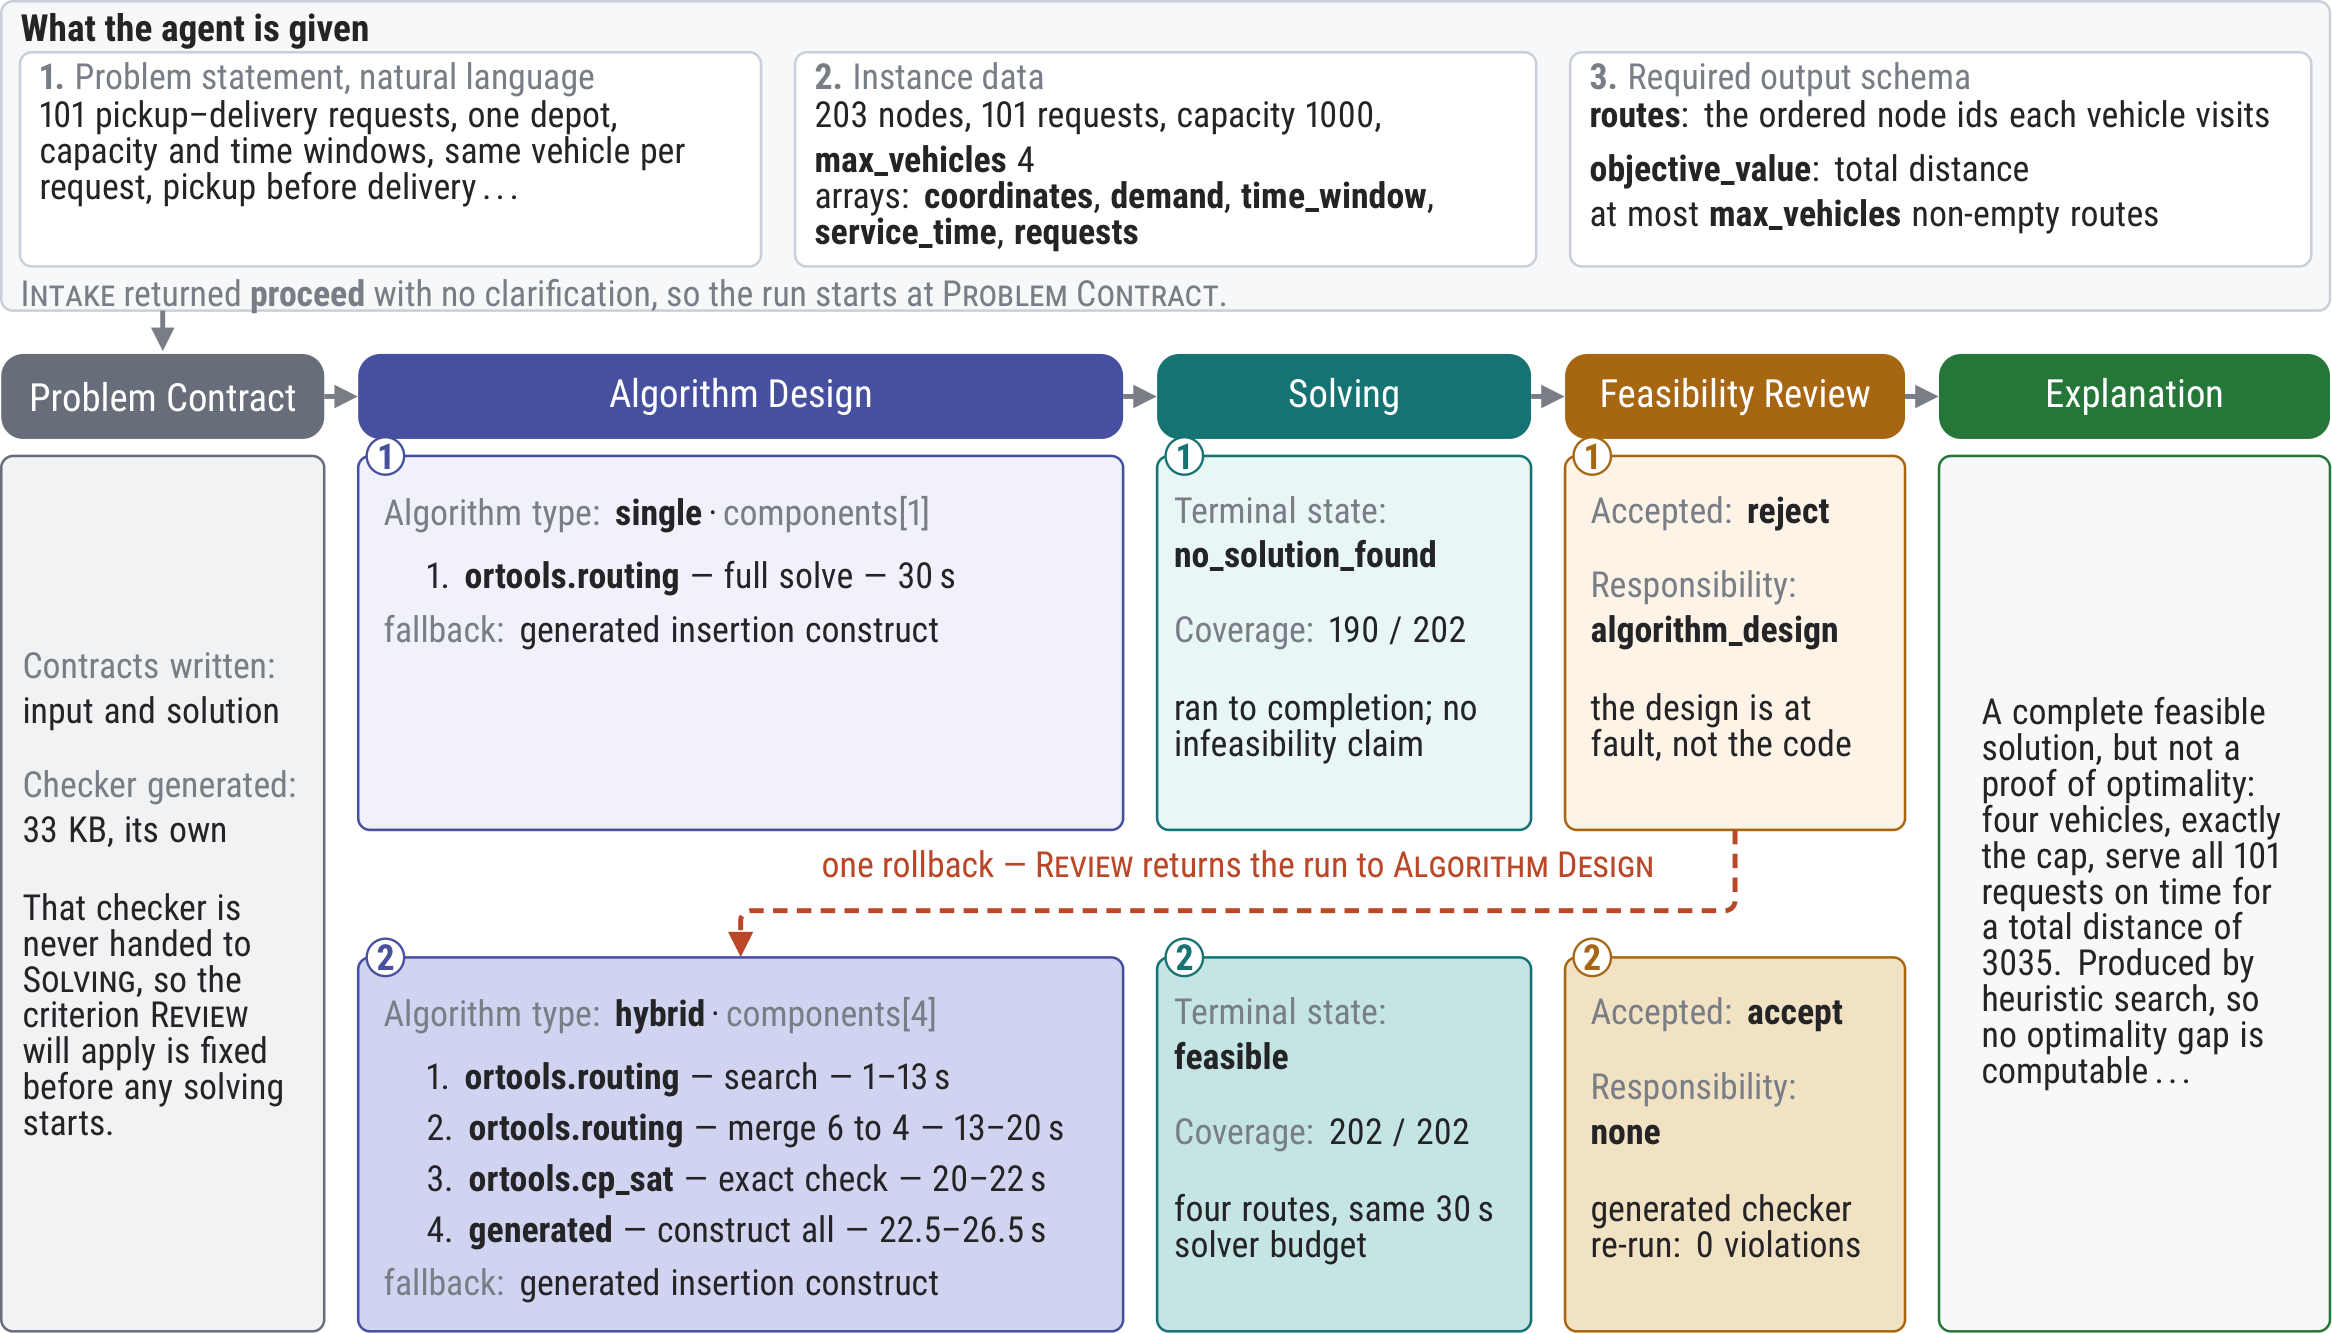
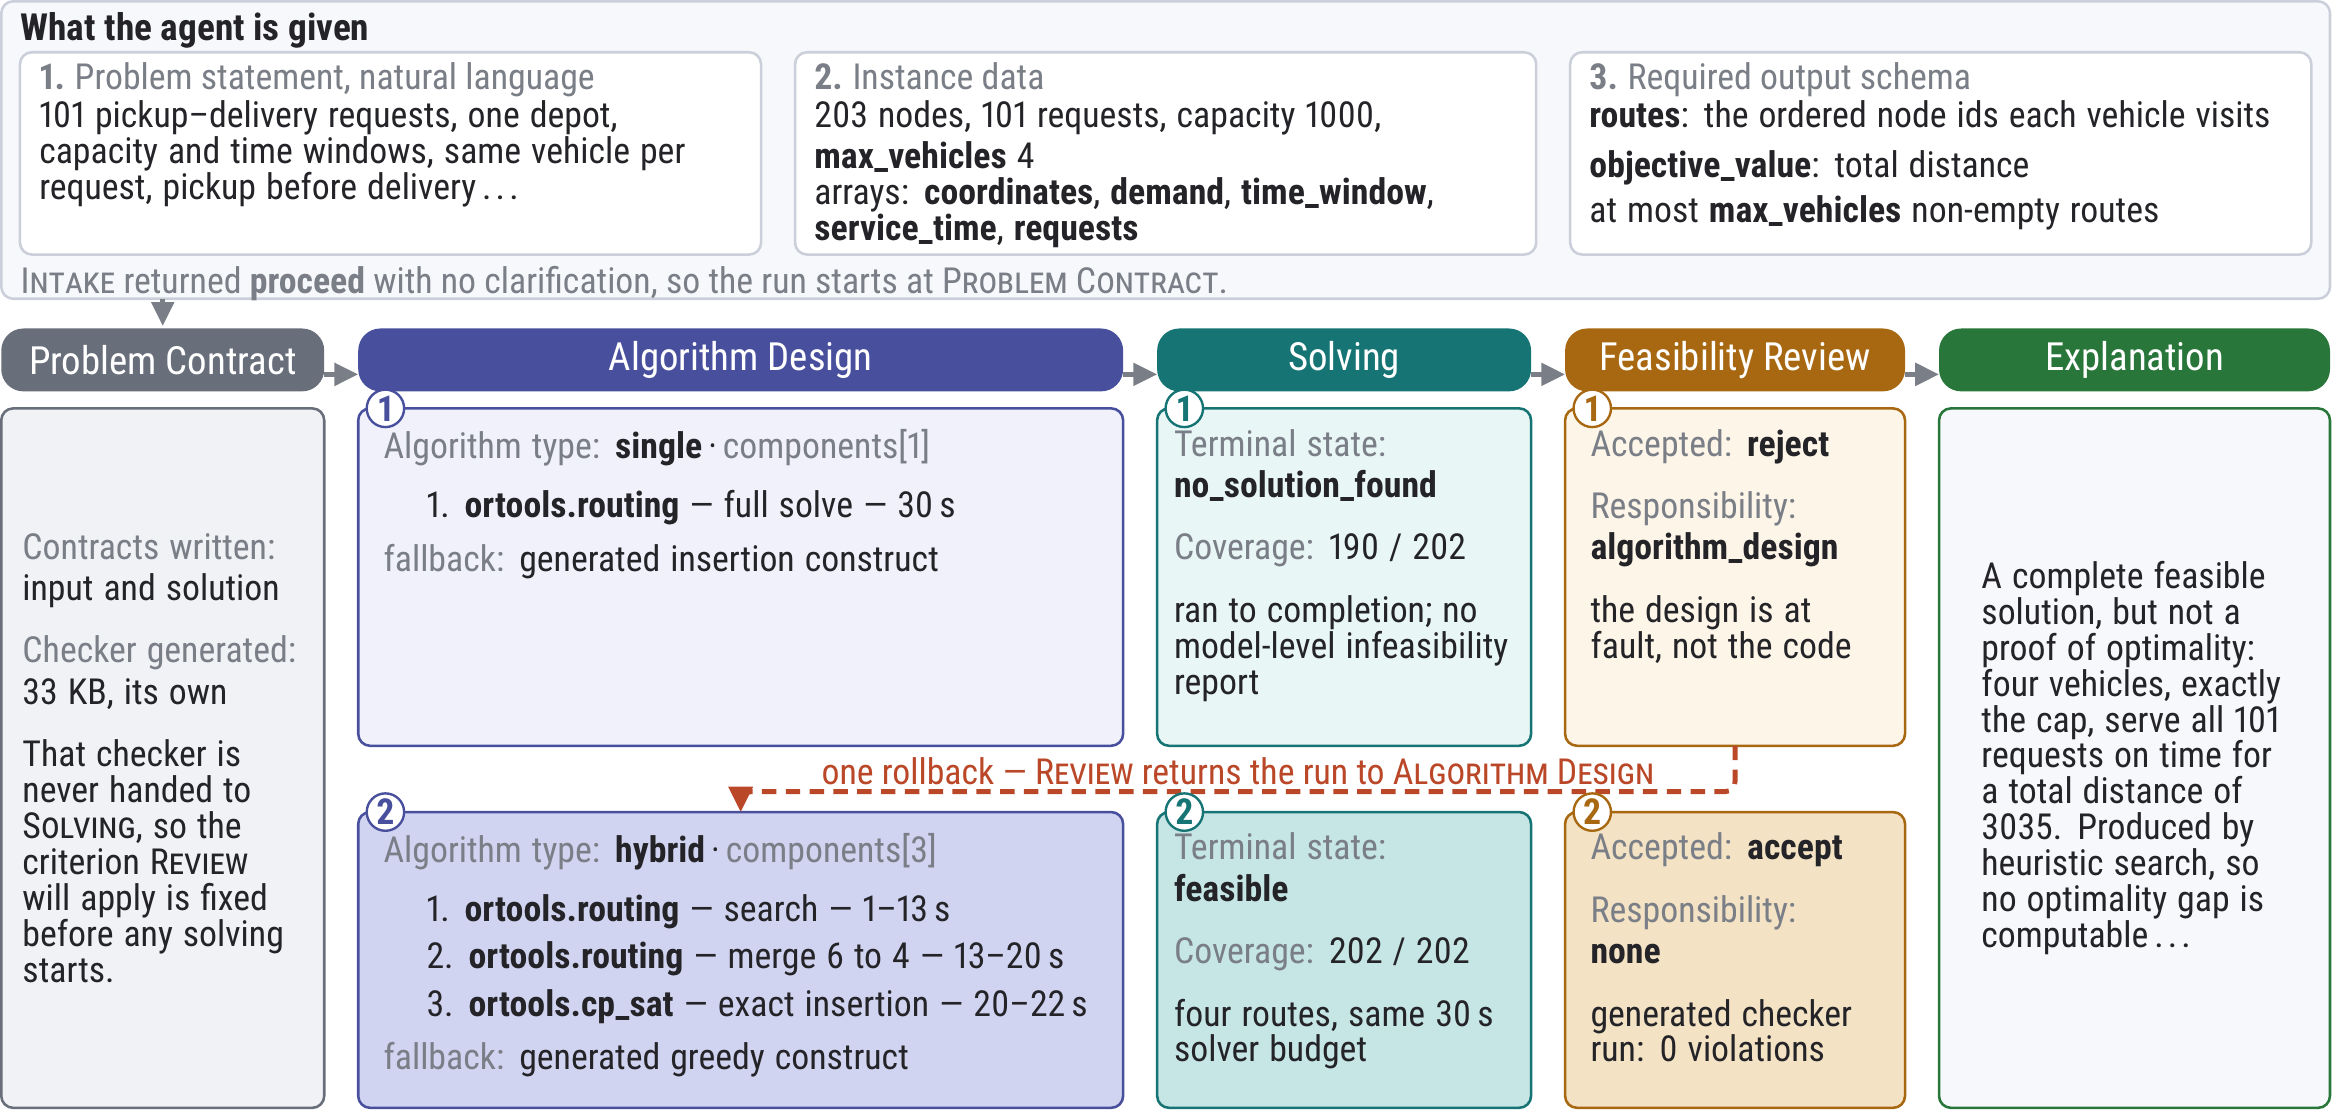
Lead with the pluggable algorithm library and refresh the figures
Add a Pluggable Algorithm Library section right after the overview paragraph,
with the add, replace, list, and remove commands and the catalog location.
Re-render the three figures from the current paper sources and add the system
overview image the README already referenced.

diff --git a/README.md b/README.md
@@ -7,7 +7,54 @@ interfaces actually run through an auditable capability layer, and independently
 candidate with a task- and instance-specific feasibility checker that routes failures to the
 stage responsible for targeted repair.
 
-## Workflow
+## Pluggable Algorithm Library
+
+Extending DecisionBrain is a catalog operation, not a code change. Every method the Agent can
+reach is declared in one strict YAML manifest under `algorithms/manifests/`, and the Agent reads
+that catalog at run time. Adding a solver, a metaheuristic framework, or an in-house domain
+routine means adding one manifest. Nothing in `src/decisionbrain/` is touched, and no stage
+prompt is rewritten.
+
+```bash
+# Plug a package in; the Agent sees it on the next run.
+dbn algorithms add path/to/package.yaml
+
+# Also run the declared import and minimal-call checks before the catalog is updated.
+dbn algorithms add path/to/package.yaml --check-runtime
+
+# Overwrite an entry that already uses the same package ID.
+dbn algorithms add path/to/package.yaml --replace
+
+# Inspect the catalog: package ID, verified version, status.
+dbn algorithms list
+
+# Unplug a package by removing its manifest from the catalog.
+rm algorithms/manifests/<package-id>.yaml
+```
+
+The catalog directory is `algorithms/manifests/` by default and follows
+`OPT_ALGORITHM_MANIFESTS_DIR` when it is set, so an evaluation machine can carry its own catalog
+without editing the checkout. `dbn algorithms add` validates the manifest against the
+package-specific interface profile, rejects a duplicate ID unless `--replace` is explicit,
+installs the file atomically, and reloads the catalog.
+
+The eight manifests shipped here are a starting catalog rather than a fixed one. They cover
+Gurobi, OR-Tools, PySCIPOpt, RSOME, ALNS, PyVRP, PyJobShop, and JobShopLib, spanning exact
+solvers, a robust-optimization modeling layer, metaheuristic frameworks, and domain-specific
+routing and scheduling packages. A manifest records the problem families, the method class, the
+optimality guarantee, the selection conditions, the limitations, and the verified distribution
+version, so a new package becomes usable by Algorithm Design and Solving the moment it is
+installed. See [Add an Algorithm Package](#add-an-algorithm-package) for the manifest
+requirements.
+
+## System Overview
+
+![DecisionBrain system overview](docs/assets/decisionbrain-overview.png)
+
+DecisionBrain replaces a model-first route with strategy-level design over components,
+validated heterogeneous methods, and independent feasibility review.
+
+## Full Workflow
 
 ![DecisionBrain workflow](docs/assets/decisionbrain-workflow.png)
 
@@ -21,8 +68,8 @@ and routes rejected outcomes back to the stage responsible for the failure.
 
 In this recorded pickup-and-delivery run, the first strategy returned an incomplete solution.
 Feasibility Review attributed the failure to Algorithm Design, which replaced the single-method
-strategy with a four-component hybrid. The second Solving pass served all 101 requests with four
-routes, and the generated checker accepted the result with no violations.
+strategy with a three-component hybrid and a generated fallback. The second Solving pass served
+all 101 requests with four routes, and the generated checker accepted the result with no violations.
 
 ## Source Installation and Release Policy
 
